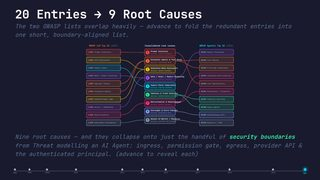
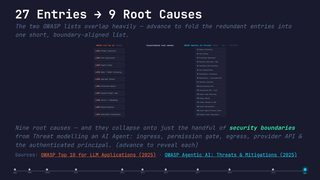
Update the AI Field Map for the multi-agent slide
Add a "Multi-Agent Threats" node between Agent Attack Surface and Tool
Call Anatomy, relabel the root-causes node 20->9 to 27->9, capture its
thumbnail, and refresh the stale thumbs for the retitled root-causes
and overview slides.

Changed region(s): [[0.0312, 0.25, 0.9375, 0.8889], [0.0312, 0.6944, 0.2188, 0.7222], [0.0625, 0.0556, 0.0938, 0.1111]]

diff --git a/index.html b/index.html
@@ -17583,8 +17583,9 @@ untrusted context (LLM01)</span></div>
       {id:'ns02',era:11,color:'#ff4444',label:['Threat','Modelling'],       slideId:'ai-threat-modelling'},
       {id:'ns03',era:11,color:'#ff6b35',label:['STRIDE','for AI'],          slideId:'ai-stride'},
       {id:'ns04',era:11,color:'#ff6b35',label:['Finding','Its Footing'],    slideId:'ai-llm-security'},
-      {id:'ns04b',era:11,color:'#ff6b35',label:['20→9','Root Causes'],      slideId:'ai-owasp-consolidated'},
+      {id:'ns04b',era:11,color:'#ff6b35',label:['27→9','Root Causes'],      slideId:'ai-owasp-consolidated'},
       {id:'ns05',era:11,color:'#9d4edd',label:['Agent Attack','Surface'],   slideId:'ai-agent-anatomy'},
+      {id:'ns05m',era:11,color:'#9d4edd',label:['Multi-Agent','Threats'],   slideId:'ai-multi-agent'},
       {id:'ns05c',era:11,color:'#9d4edd',label:['Tool Call','Anatomy'],     slideId:'ai-tool-call-anatomy'},
       {id:'ns05b',era:11,color:'#9d4edd',label:['Untrusted','Input'],       slideId:'ai-untrusted-input'},
       {id:'ns06',era:11,color:'#9d4edd',label:['MITRE','ATLAS'],            slideId:'ai-atlas'},
@@ -17619,7 +17620,7 @@ untrusted context (LLM01)</span></div>
       // Era 10 chain
       ['n74','n75'],['n75','n76'],['n76','n77'],['n77','n78'],['n78','n79'],['n79','n82'],['n82','n83'],['n83','n84'],['n84','n84b'],['n84b','n85'],['n85','n80'],['n80','n81'],
       // Era 11 chain (AI Security)
-      ['ns01','ns02'],['ns02','ns03'],['ns03','ns04'],['ns04','ns04b'],['ns04b','ns05'],['ns05','ns05c'],['ns05c','ns05b'],['ns05b','ns06'],['ns06','ns07'],['ns07','ns08'],
+      ['ns01','ns02'],['ns02','ns03'],['ns03','ns04'],['ns04','ns04b'],['ns04b','ns05'],['ns05','ns05m'],['ns05m','ns05c'],['ns05c','ns05b'],['ns05b','ns06'],['ns06','ns07'],['ns07','ns08'],
       // Cross-era conceptual bridges
       ['n01','n06'],['n02','n06'],['n05','n06'],   // era 1 → era 2
       ['n10','n11'],['n06','n13'],['n09','n13'],   // era 2 → era 3
